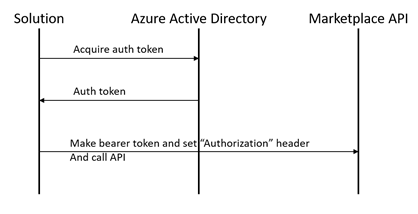
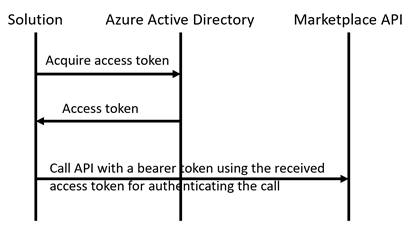
Update to readme

Changed region(s): [[0.0622, 0.0561, 0.9952, 0.9533], [0.2488, 0.0561, 0.6531, 0.1121], [0.0, 0.0561, 0.1555, 0.1121]]

diff --git a/README.md b/README.md
@@ -8,15 +8,13 @@ The Azure SaaS Fulfillment API V2 reference is: [here](https://docs.microsoft.co
 
 There is also a Postman collection showing the mock API.
 
-This client is based on the mock API referenced in the article above.
-
 The client is also available as a Nuget package at https://www.nuget.org/packages/AzureMarketplaceSaaSApiClient/
 
 ## Using the library
 
 Register a new AAD application as described in the [documentation](https://docs.microsoft.com/en-us/azure/active-directory/develop/scenario-web-app-call-api-app-registration) and keep the secret. I recommend you to have a separate AAD application for API integration other than the one used in the landing page. This application can be single-tenant.
 
-The library does not implement certificate authentication yet, but I love to see PRs. Please feel free to submit. So generate a key on the portal, and keep it in your favorite secret location, such as [KeyVault](https://docs.microsoft.com/en-us/aspnet/core/security/key-vault-configuration?view=aspnetcore-2.2). I use ```dotnet user-secrets``` for my development.
+The library does not implement certificate authentication yet, but I love to see PRs. Please feel free to submit. So generate a key on the portal, and keep it in your favorite secret location, such as [KeyVault](https://docs.microsoft.com/en-us/aspnet/core/security/key-vault-configuration?view=aspnetcore-2.2). I use ```dotnet user-secrets``` for my development environment.
 
 If you are using dotnet dependency injection, there is an [extension method](https://github.com/Ercenk/AzureMarketplaceSaaSApiClient/blob/master/src/FulfillmentClientServiceCollectionExtensions.cs) for you. Please see the usage in the [test](https://github.com/Ercenk/AzureMarketplaceSaaSApiClient/blob/master/test/SaaSFulfillmentClientTests/WebHookTests.cs#L76) for registering the types and inject to the classes using those.
 
@@ -58,13 +56,11 @@ If you wish to use your own implementation for the store, you can register it wi
 
 I recommend to register a separate Azure Active Directory App for calling the API, and make it single tenant. The first step for a publisher is to register an Azure AD app, and record its details (Tenant Id and App Id, a.k.a. Client Id) on the Commercial Marketplace portal.
 
-![RegisterApp](./Docs/RegisterApp.png)
-
-The API client accepts the Tenant Id, App Id, and App secret as properties of ```SecuredFulfillmentClientConfiguration ```, and uses those to grab an Auth token from Azure AD. The high level scenario for a web app calling an API with the stored application secret is [here](https://docs.microsoft.com/en-us/azure/active-directory/develop/scenario-web-app-call-api-overview).
+The API client accepts the Tenant Id, App Id, and App secret as properties of ```SecuredFulfillmentClientConfiguration ```, and uses those to grab an access token from Azure AD. The high level scenario for a web app calling an API with the stored application secret is [here](https://docs.microsoft.com/en-us/azure/active-directory/develop/scenario-web-app-call-api-overview).
 
 The dance of an authenticated solution with the Marketplace API works like this.
 
-- Access the Azure AD authentication endpoint to grab an auth token. You will need to provide the client Id, client secret and a resource (default value is "62d94f6c-d599-489b-a797-3e10e42fbe22" as listed in the [documentation](https://docs.microsoft.com/en-us/azure/marketplace/partner-center-portal/pc-saas-registration#get-a-token-based-on-the-azure-ad-app)). Please note that this is the V1 endpoint for Azure AD. V2 endpoint does not accept a resource, but a "scope" with a URL format. The API client uses the following code to get the Auth Token. Please see the use of Client ID, Client Secret and resource ID below. The tenant ID is passed in the URL for the authentication endpoint. The following code snippet is from the [AdApplicationHelper class](https://github.com/Ercenk/AzureMarketplaceSaaSApiClient/blob/master/src/AzureAD/AdApplicationHelper.cs):
+- Access the Azure AD authentication endpoint to grab an access token. You will need to provide the client Id, client secret and a resource (default value is "62d94f6c-d599-489b-a797-3e10e42fbe22" as listed in the [documentation](https://docs.microsoft.com/en-us/azure/marketplace/partner-center-portal/pc-saas-registration#get-a-token-based-on-the-azure-ad-app)). Please note that this is the V1 endpoint for Azure AD. V2 endpoint does not accept a resource, but a "scope" with a URL format. The API client uses the following code to get the access token. Please see the use of Client ID, Client Secret and resource ID below. The tenant ID is passed in the URL for the authentication endpoint. The following code snippet is from the [AdApplicationHelper class](https://github.com/Ercenk/AzureMarketplaceSaaSApiClient/blob/master/src/AzureAD/AdApplicationHelper.cs):
 
     ```C#
                 var credential = new ClientCredential(options.AzureActiveDirectory.ClientId.ToString(), options.AzureActiveDirectory.AppKey);
@@ -73,7 +69,7 @@ The dance of an authenticated solution with the Marketplace API works like this.
                 return token.AccessToken;
     ```
 
-- Make a bearer token by prepending "Bearer " to the auth token, as show in the following code snippet ([RestClient class](https://github.com/Ercenk/AzureMarketplaceSaaSApiClient/blob/master/src/RestClient.cs#L48)) and set it to the "Authorization" header of the request
+- Make a bearer token by prepending "Bearer " to the access token, as show in the following code snippet ([RestClient class](https://github.com/Ercenk/AzureMarketplaceSaaSApiClient/blob/master/src/RestClient.cs#L48)) and set it to the "Authorization" header of the request
 
     ```C#
         request.Headers.Authorization = new AuthenticationHeaderValue("Bearer", bearerToken);
